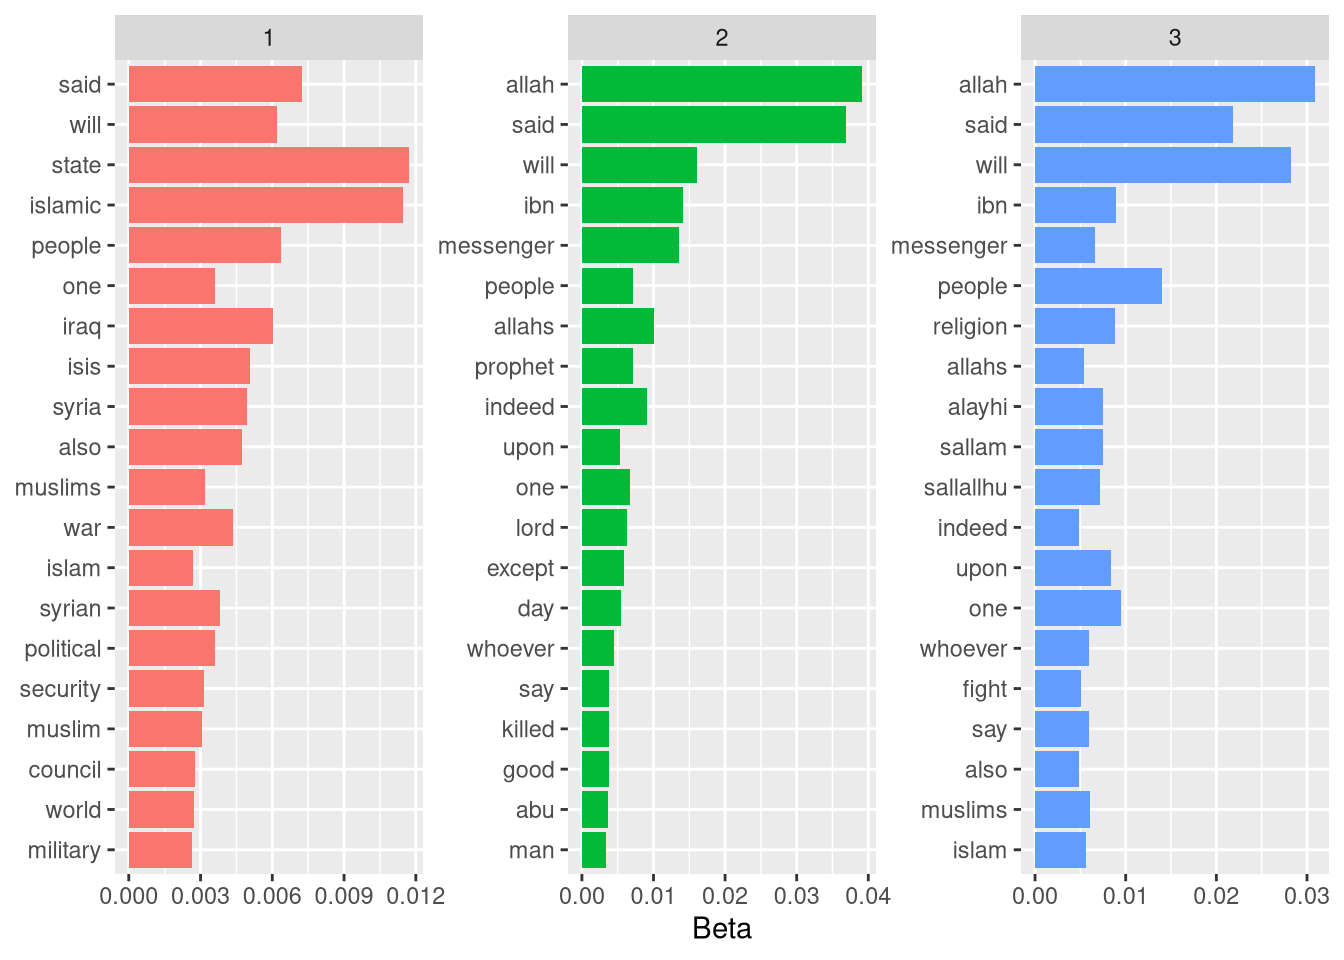
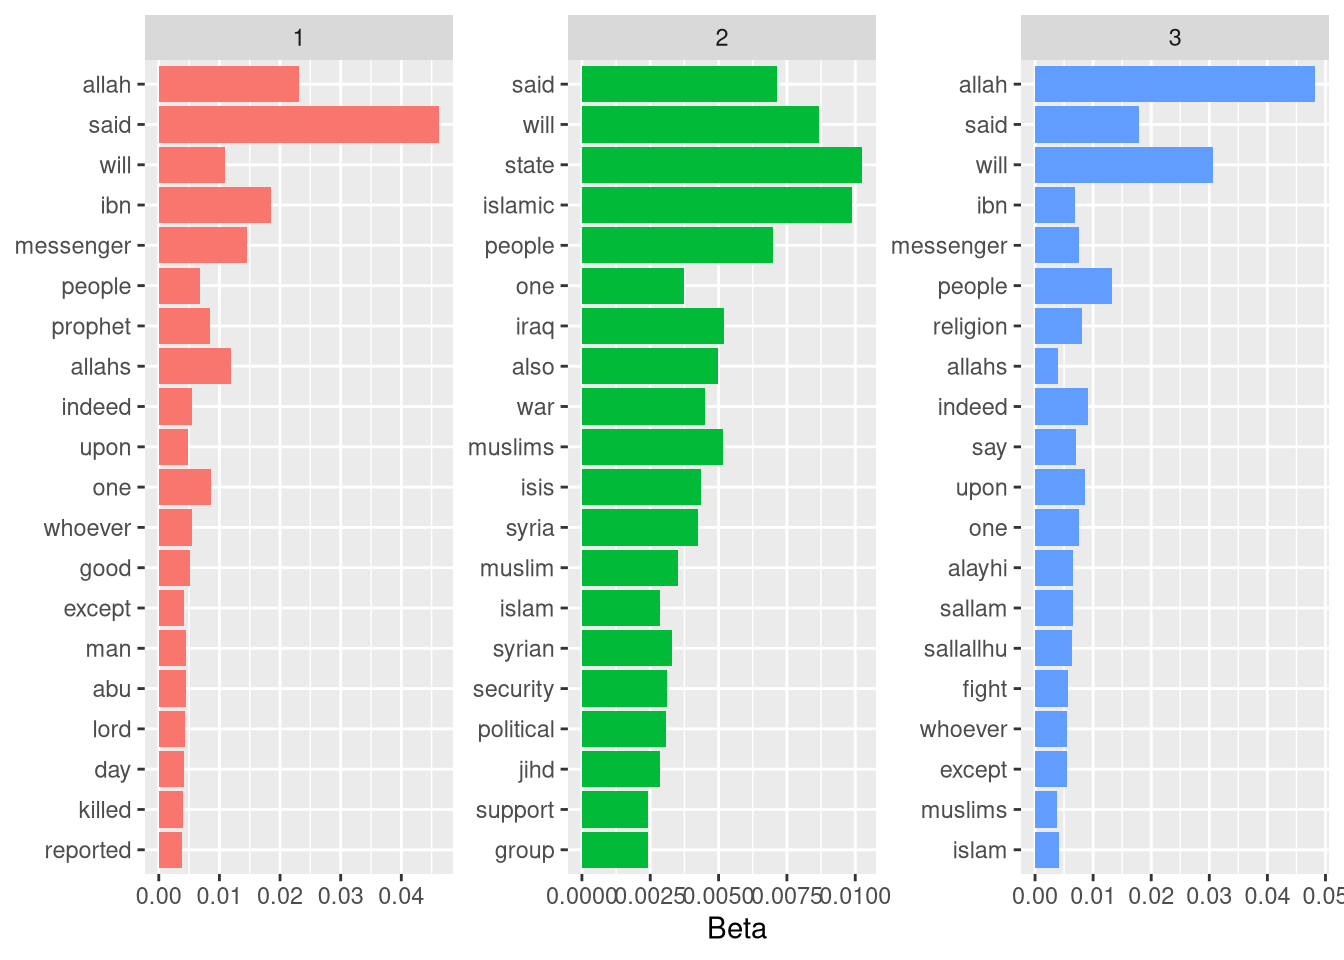
update

diff --git a/content/post/2020-04-22-escola-isis-de-radicalizacao-religiosa-uma-analise-com-nlp.html b/content/post/2020-04-22-escola-isis-de-radicalizacao-religiosa-uma-analise-com-nlp.html
@@ -106,18 +106,18 @@ res = dataset %&gt;%
     
 res</code></pre>
 <pre><code>## # A tibble: 60 x 3
-##    topic term       beta
-##    &lt;int&gt; &lt;chr&gt;     &lt;dbl&gt;
-##  1     1 state   0.0117 
-##  2     1 islamic 0.0115 
-##  3     1 said    0.00725
-##  4     1 people  0.00636
-##  5     1 will    0.00621
-##  6     1 iraq    0.00603
-##  7     1 isis    0.00505
-##  8     1 syria   0.00494
-##  9     1 also    0.00474
-## 10     1 war     0.00438
+##    topic term         beta
+##    &lt;int&gt; &lt;chr&gt;       &lt;dbl&gt;
+##  1     1 said      0.0462 
+##  2     1 allah     0.0231 
+##  3     1 ibn       0.0185 
+##  4     1 messenger 0.0145 
+##  5     1 allahs    0.0120 
+##  6     1 will      0.0109 
+##  7     1 one       0.00868
+##  8     1 prophet   0.00837
+##  9     1 people    0.00680
+## 10     1 indeed    0.00551
 ## # … with 50 more rows</code></pre>
 <p>O trecho acima é bem auto-explicativo, até mesmo devido aos comentários no código. Informações extras podem ser encontradas na documentação das funções.</p>
 <p>Vamos plotar as informações que conseguimos, assim é possível visualizarmos melhor o resultado.</p>

diff --git a/public/2020/04/22/isis-nlp-analysis/index.html b/public/2020/04/22/isis-nlp-analysis/index.html
@@ -281,18 +281,18 @@ res = dataset %&gt;%
     
 res</code></pre>
 <pre><code>## # A tibble: 60 x 3
-##    topic term       beta
-##    &lt;int&gt; &lt;chr&gt;     &lt;dbl&gt;
-##  1     1 state   0.0117 
-##  2     1 islamic 0.0115 
-##  3     1 said    0.00725
-##  4     1 people  0.00636
-##  5     1 will    0.00621
-##  6     1 iraq    0.00603
-##  7     1 isis    0.00505
-##  8     1 syria   0.00494
-##  9     1 also    0.00474
-## 10     1 war     0.00438
+##    topic term         beta
+##    &lt;int&gt; &lt;chr&gt;       &lt;dbl&gt;
+##  1     1 said      0.0462 
+##  2     1 allah     0.0231 
+##  3     1 ibn       0.0185 
+##  4     1 messenger 0.0145 
+##  5     1 allahs    0.0120 
+##  6     1 will      0.0109 
+##  7     1 one       0.00868
+##  8     1 prophet   0.00837
+##  9     1 people    0.00680
+## 10     1 indeed    0.00551
 ## # … with 50 more rows</code></pre>
 <p>O trecho acima é bem auto-explicativo, até mesmo devido aos comentários no código. Informações extras podem ser encontradas na documentação das funções.</p>
 <p>Vamos plotar as informações que conseguimos, assim é possível visualizarmos melhor o resultado.</p>

diff --git a/content/post/2020-03-18-o-que-sao-funcoes-e-como-utiliza-las.html b/content/post/2020-03-18-o-que-sao-funcoes-e-como-utiliza-las.html
@@ -14,6 +14,7 @@ layout: post
 type: post
 highlight: yes
 draft: true
+Description: 'Nessa publicação aplico o modelo LDA em um dataset que contém artigos de revista utilizados pelo Estado Islâmico em sua propaganda política.'
 ---
 
 
